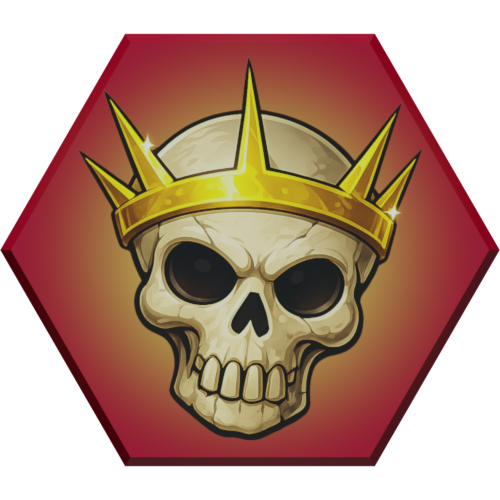
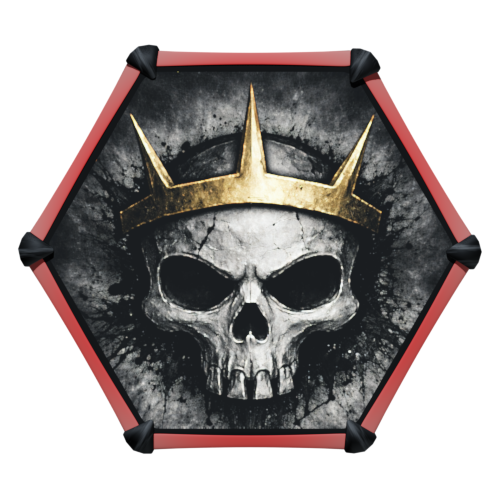
update the tokens frames

diff --git a/src/game-prototypes/hexobject-prototypes.ts b/src/game-prototypes/hexobject-prototypes.ts
@@ -65,7 +65,7 @@ export const HEX_OBJECT_PROTOTYPES: Record<THexobjectKey, THexobjectPrototype> =
             faction: "enemy"
         },
         collision: EHexCollision.SOLID,
-        spritePath: 'src/assets/hexs/terrain-hexs/skeletor-hex-image.png',
+        spritePath: 'src/assets/enemy-assets/boss-hex-images/skeletor-hex-image.png',
     },
 
     [HEXOBJECT_KEYS.AXE]: {
